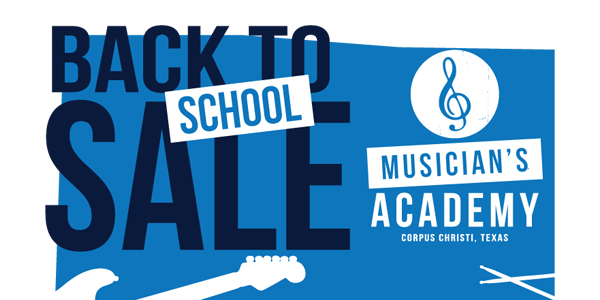
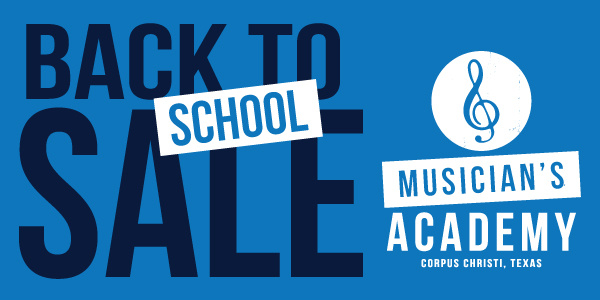
edited events page sidebar and added image
edited the dates on  sidebar and switched out images

diff --git a/events.html b/events.html
@@ -126,9 +126,9 @@
     <div class="large-4 columns text-right">
       <h2>Overview</h2>
       <ul class="no-bullet events-overview">
-        <li><a href="#entry_3">Winter Recital - August, 3rd, 2013</a></li>
-        <li><a href="#entry_2">Winter Recital - August, 3rd, 2013</a></li>
-        <li><a href="#entry_1">Winter Recital - August, 3rd, 2013</a></li>
+        <li><a href="#entry_3">BACK TO SCHOOL SALE - ENDS MONDAY, SEPTEMBER 30TH, 2013</a></li>
+        <li><a href="#entry_2">WINTER RECITAL - SATURDAY, DECEMBER 14TH, 2013</a></li>
+        <li><a href="#entry_1">MORE TO COME!</a></li>
       </ul>
     </div>
   </div>
